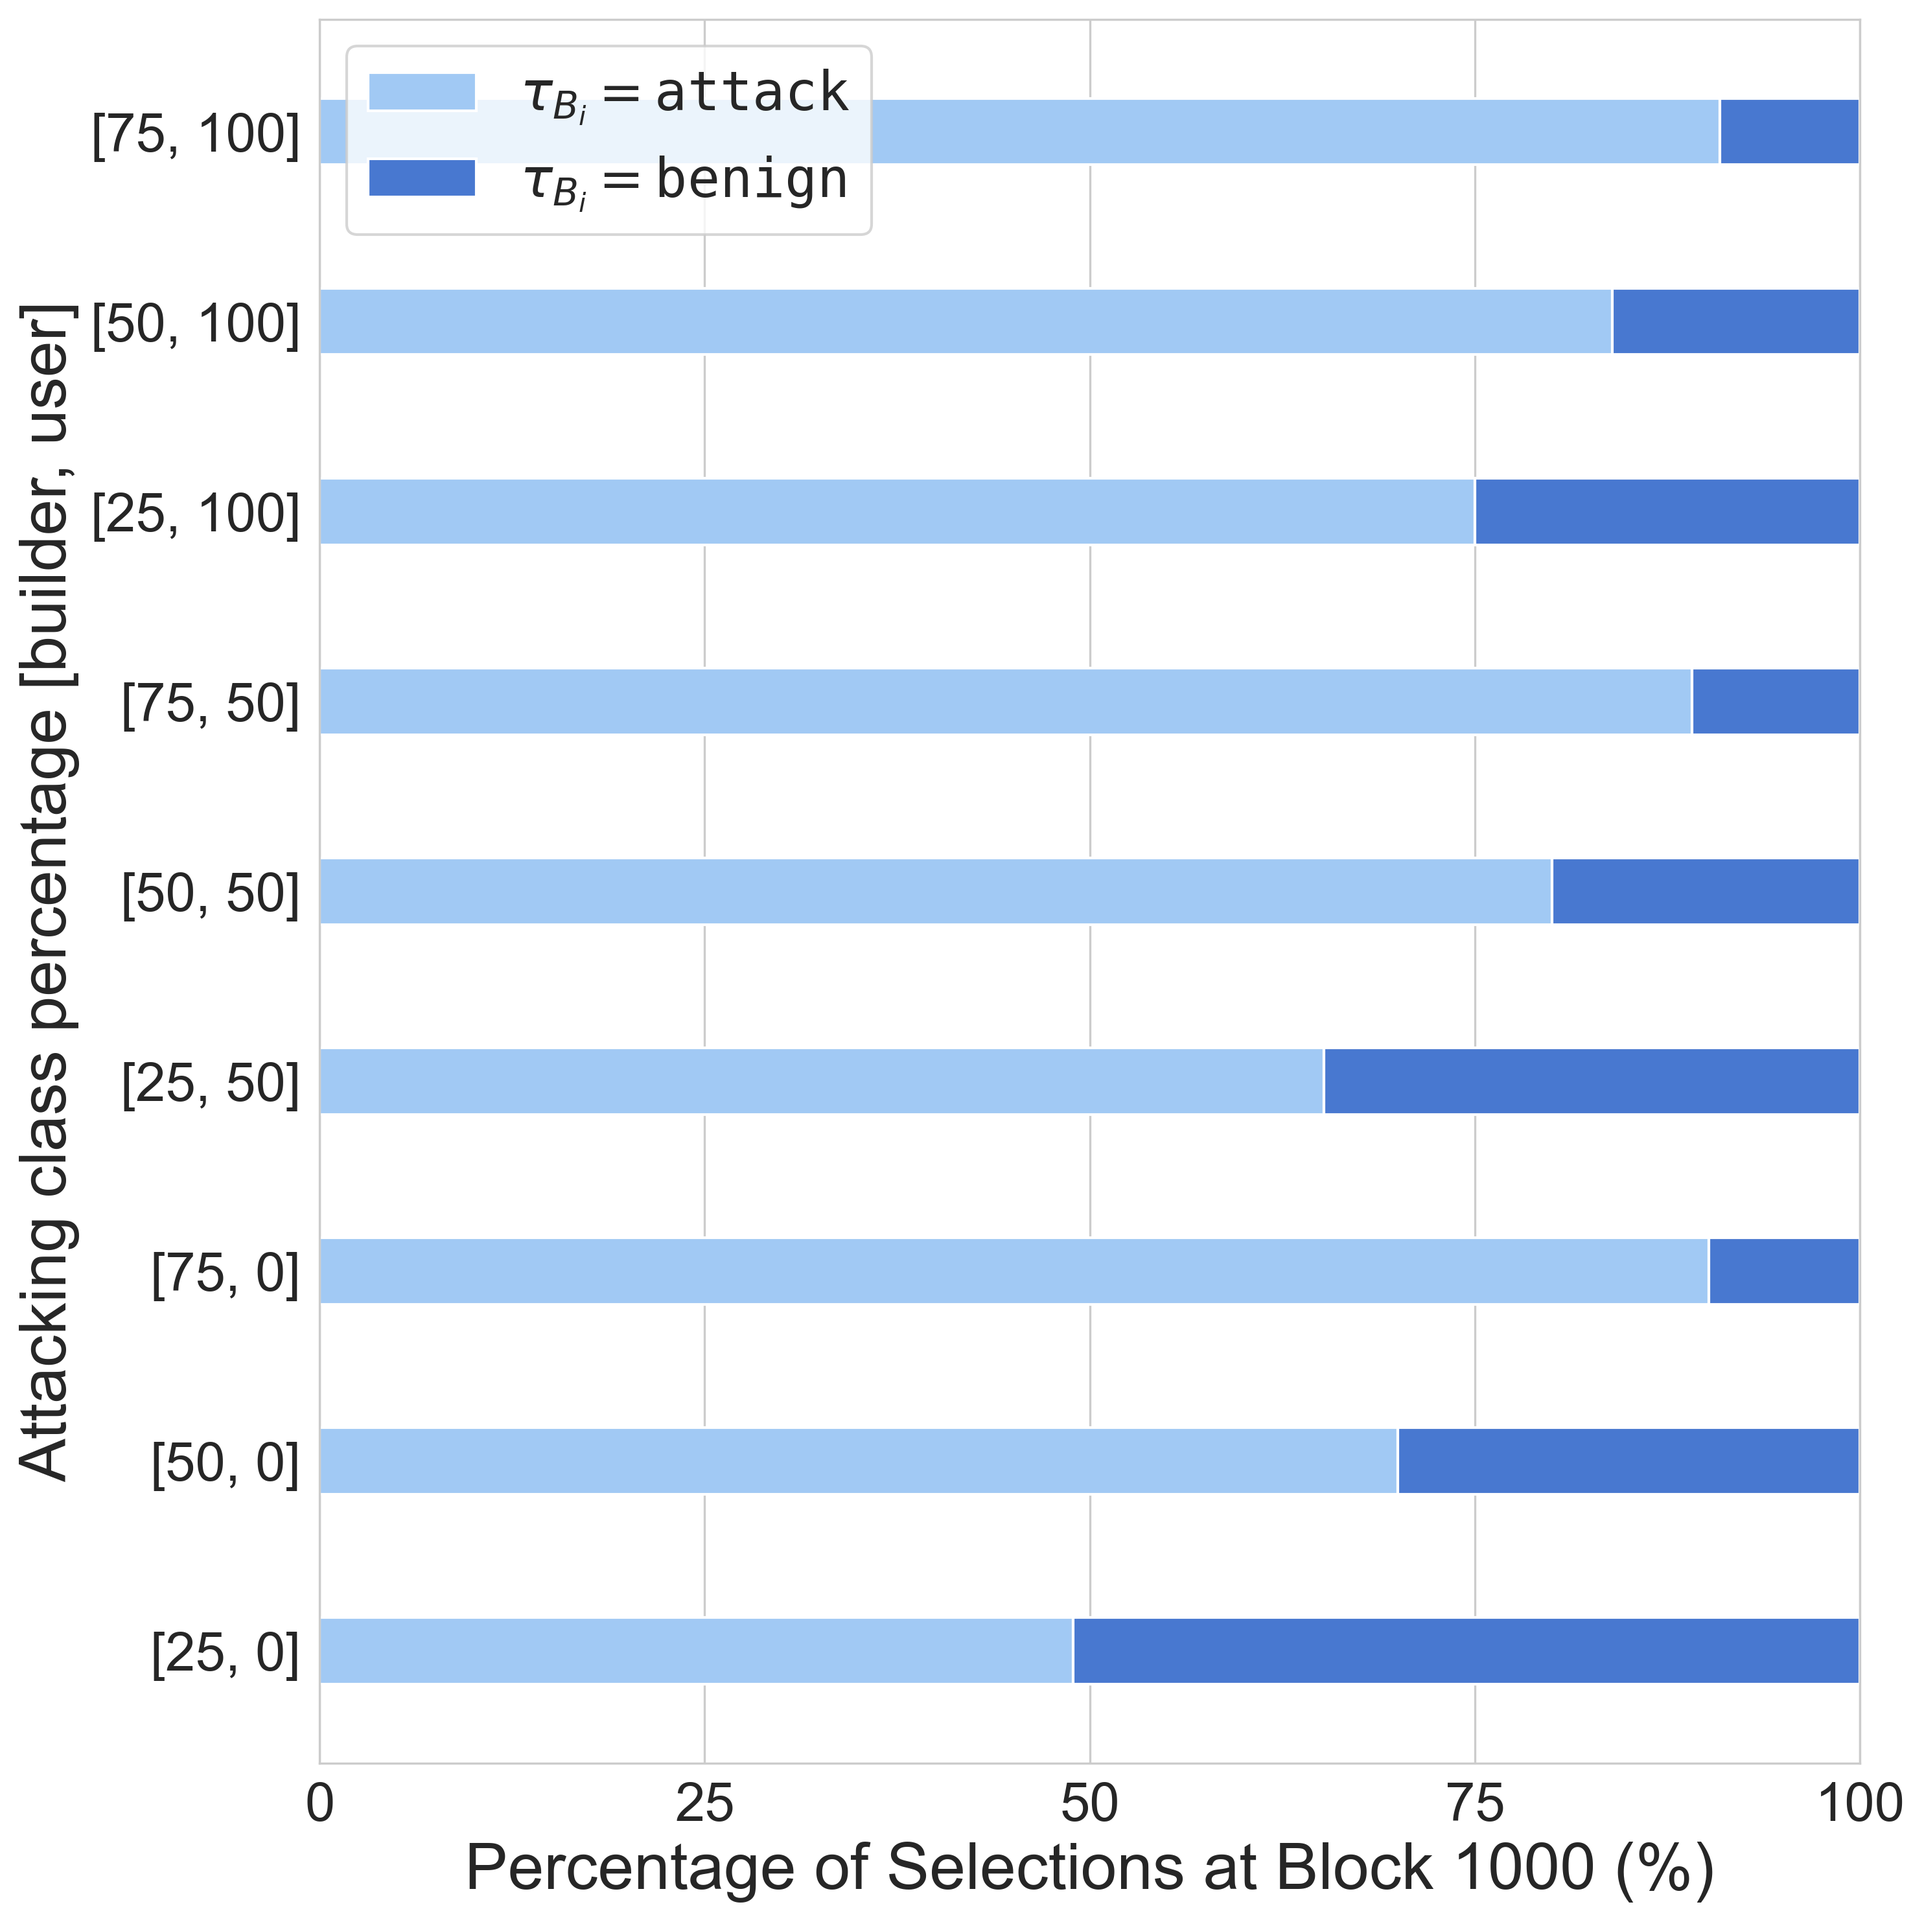
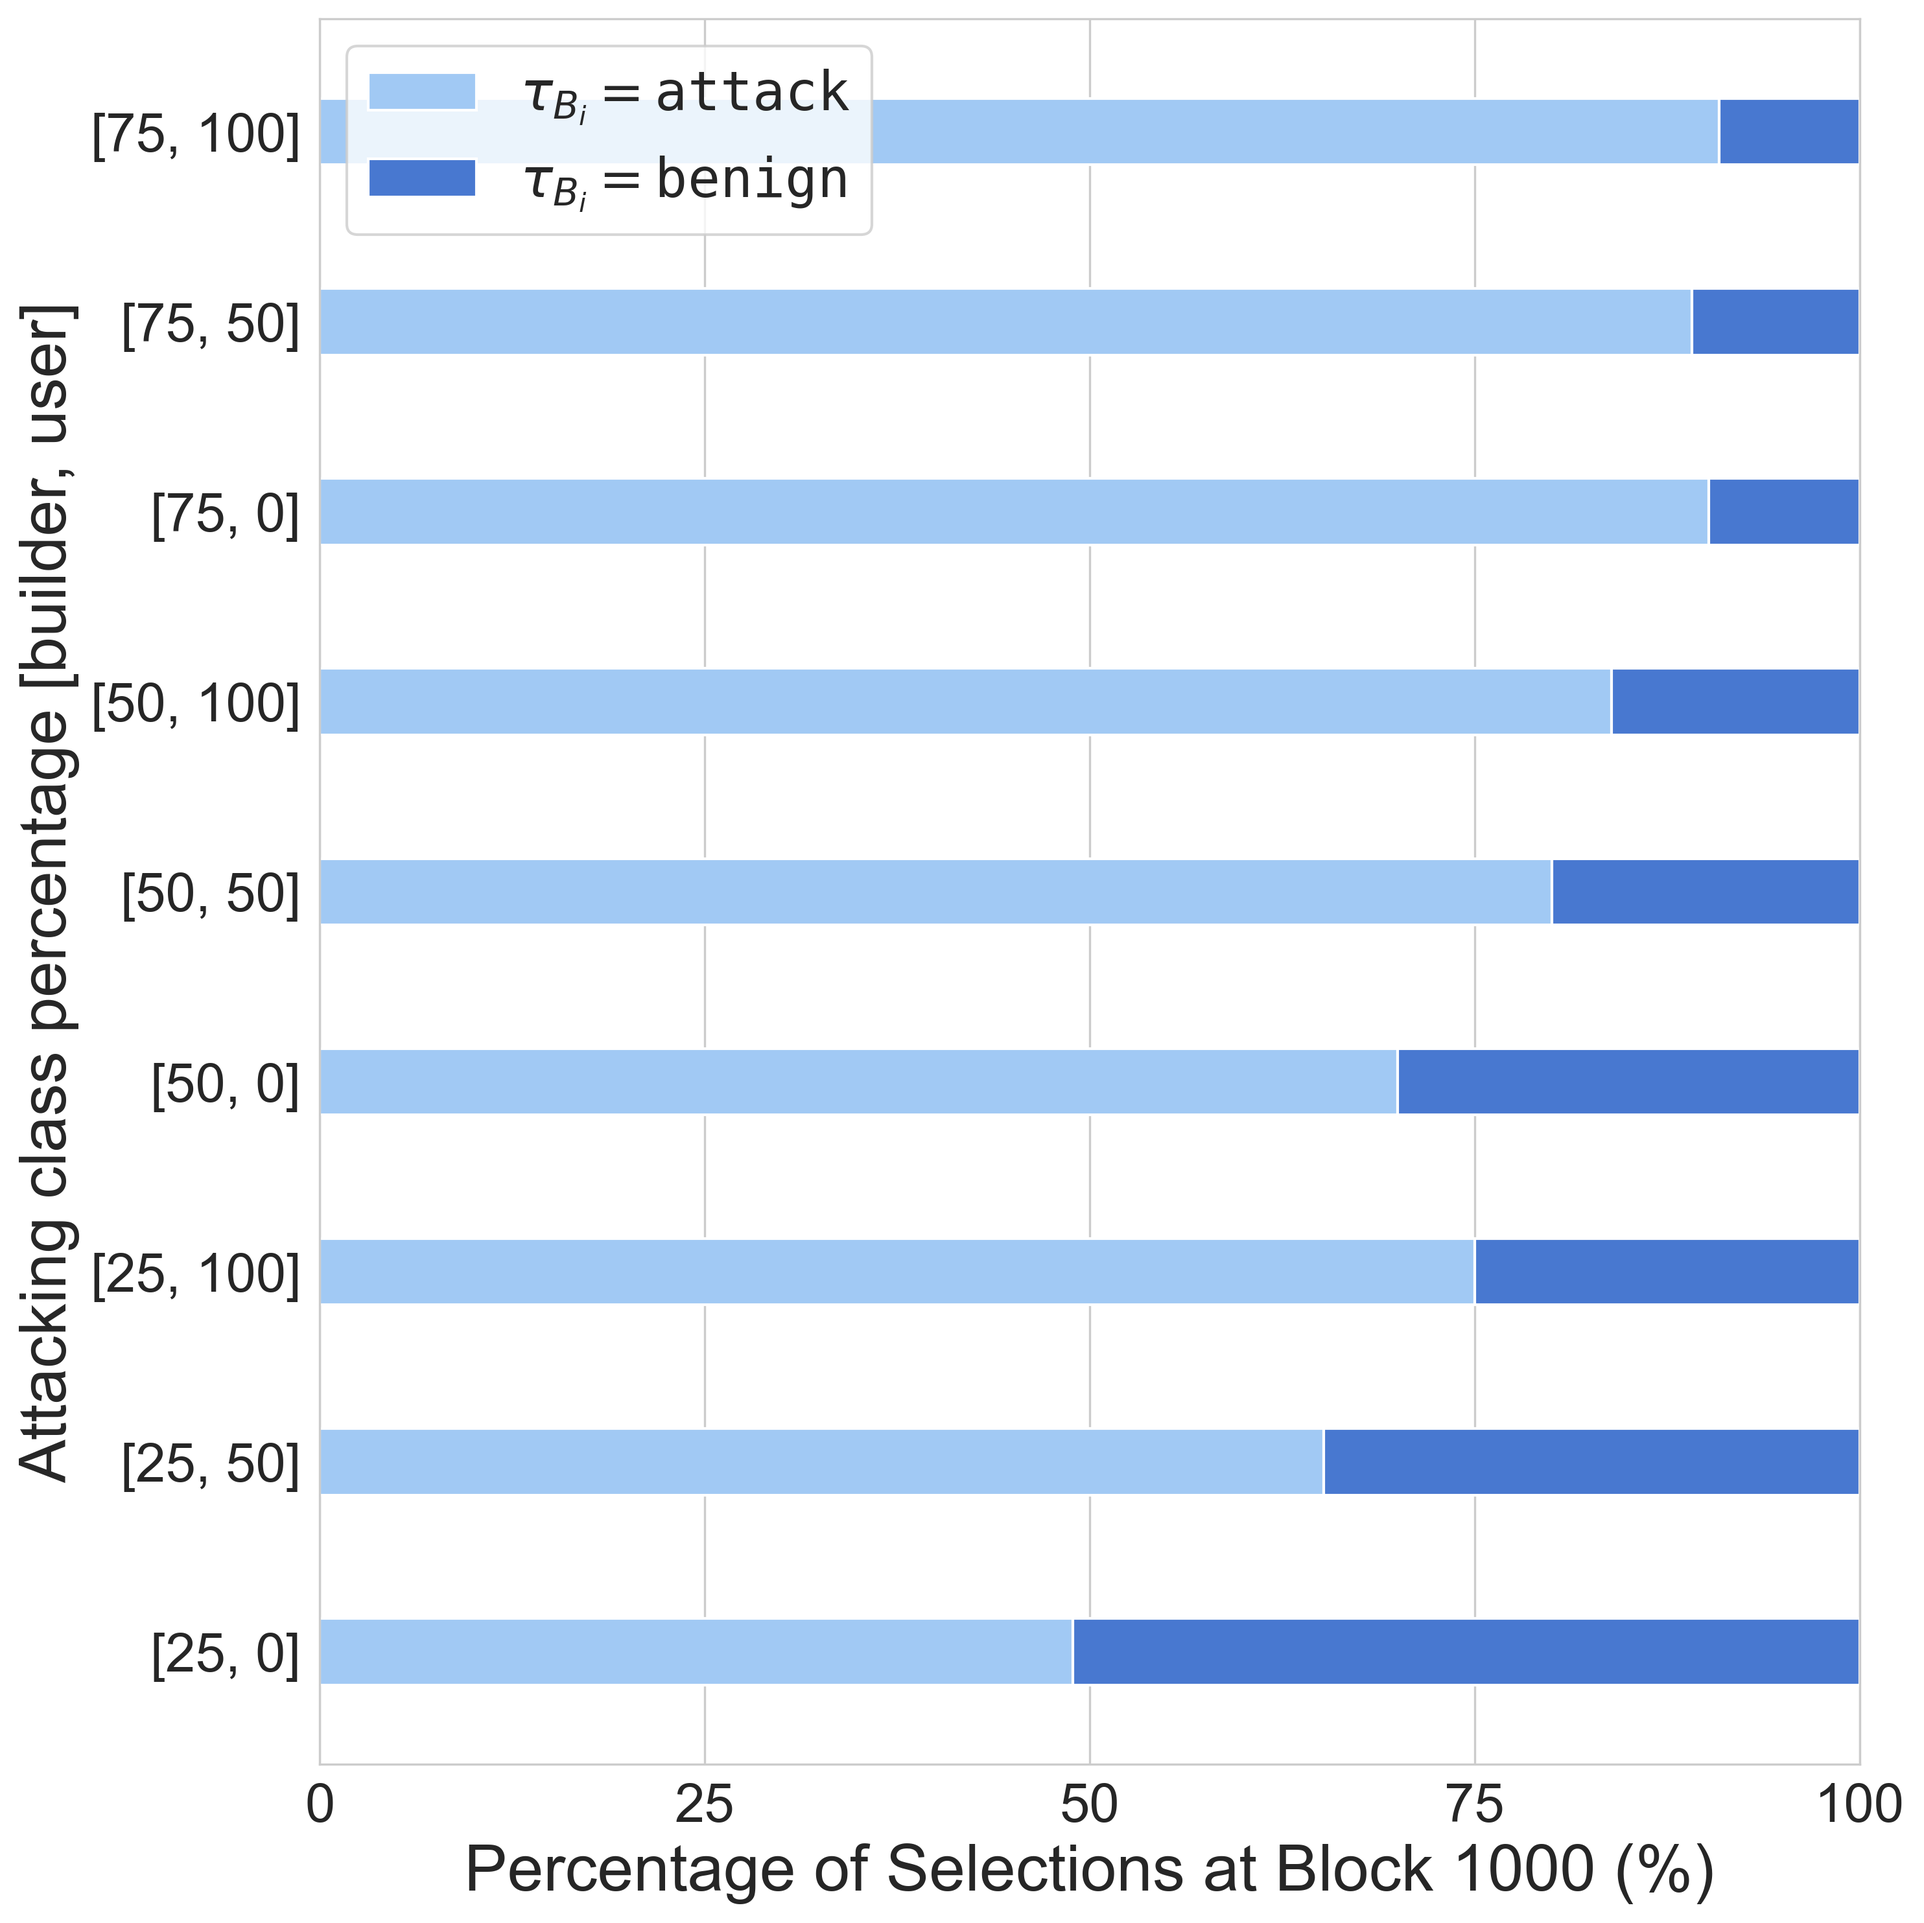
better presentation

diff --git a/plots/ss/block_build_proportions.py b/plots/ss/block_build_proportions.py
@@ -50,11 +50,11 @@ def create_comparison_bar_chart():
     output_dir = 'figures/ss'
     os.makedirs(output_dir, exist_ok=True)
     
-    # Configuration for the 3x3 grid
+    # Configuration for the 3x3 grid - reordered to group by builder percentage first
     configs = [
-        (5, 0), (10, 0), (15, 0),
-        (5, 25), (10, 25), (15, 25),
-        (5, 50), (10, 50), (15, 50)
+        (5, 0), (5, 25), (5, 50),    # 25% builders with 0%, 50%, 100% users
+        (10, 0), (10, 25), (10, 50), # 50% builders with 0%, 50%, 100% users  
+        (15, 0), (15, 25), (15, 50)  # 75% builders with 0%, 50%, 100% users
     ]
     
     # Data paths
